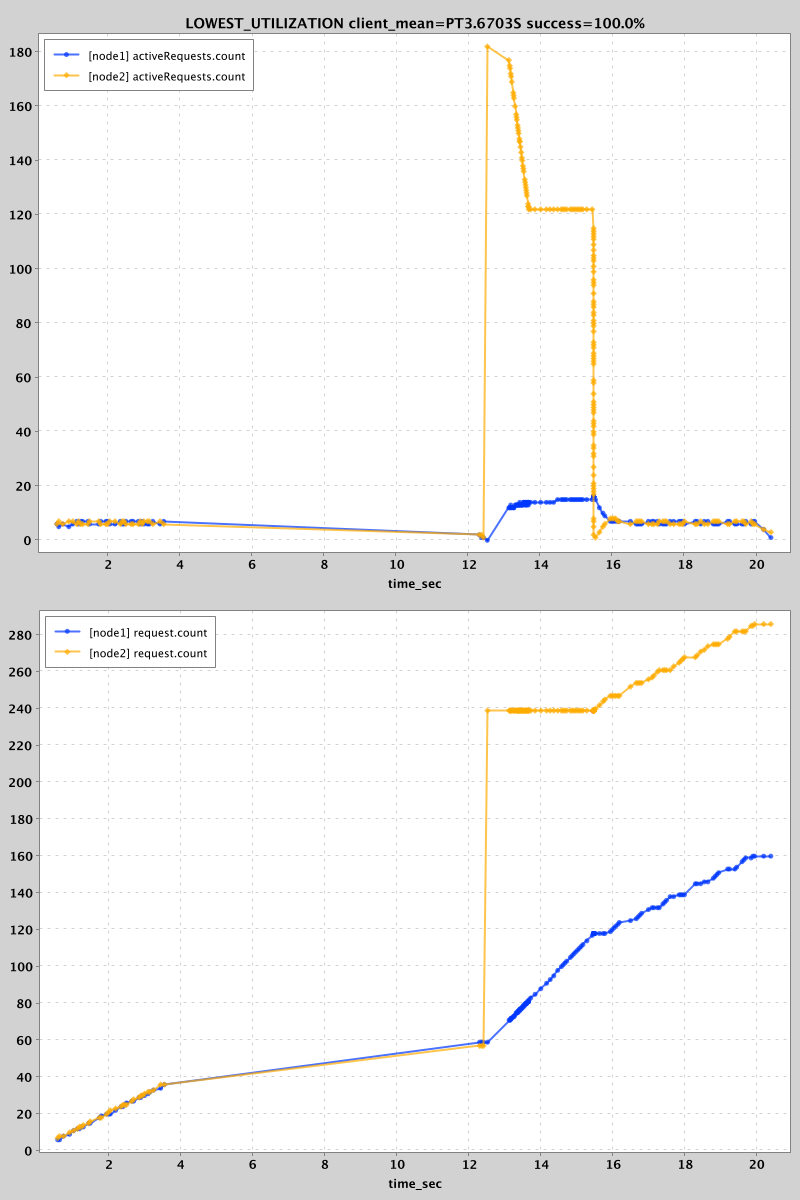
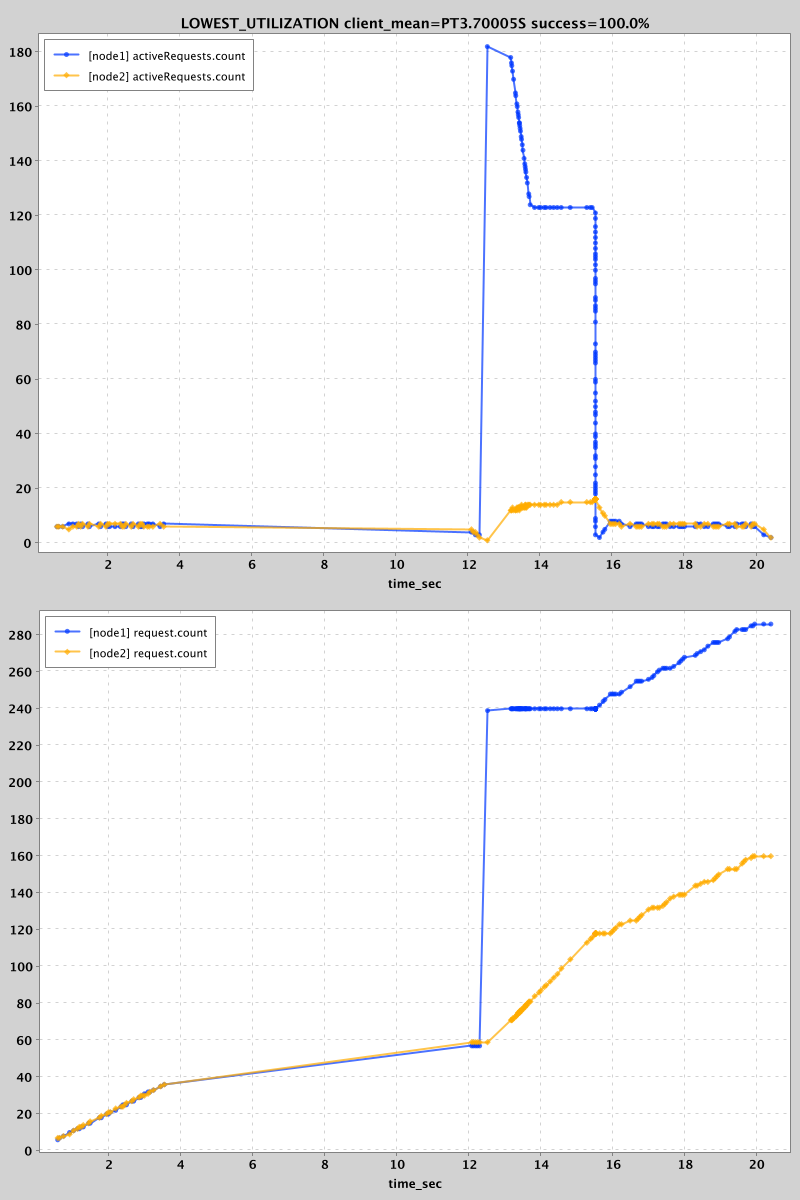
Trivial randomness move

diff --git a/simulation/src/main/java/com/palantir/dialogue/core/PreferLowestUtilization.java b/simulation/src/main/java/com/palantir/dialogue/core/PreferLowestUtilization.java
@@ -60,7 +60,7 @@ public final class PreferLowestUtilization implements LimitedChannel {
         // we accumulate everything right now (which is probably quite expensive), but it allows us to move on to the
         // next-best channel if our preferred one refuses
         Map<Integer, List<LimitedChannel>> channelsByActive = new TreeMap<>();
-        for (LimitedChannel channel : channels) {
+        for (LimitedChannel channel : randomness.shuffle(channels)) {
             int activeRequests = active.get(channel).get();
             channelsByActive.compute(activeRequests, (key, existing) -> {
                 if (existing == null) {
@@ -77,8 +77,7 @@ public final class PreferLowestUtilization implements LimitedChannel {
         // this relies on the cache being pre-filled (containing some channel -> 0 mappings).
         for (Integer activeCount : channelsByActive.keySet()) {
             List<LimitedChannel> candidates = channelsByActive.get(activeCount);
-            List<LimitedChannel> tiebreak = randomness.shuffle(candidates);
-            for (LimitedChannel channel : tiebreak) {
+            for (LimitedChannel channel : candidates) {
                 log.info("time={} best={} active={}", Duration.ofNanos(clock.read()), channel, channelsByActive);
 
                 AtomicInteger atomicInteger = active.get(channel);
